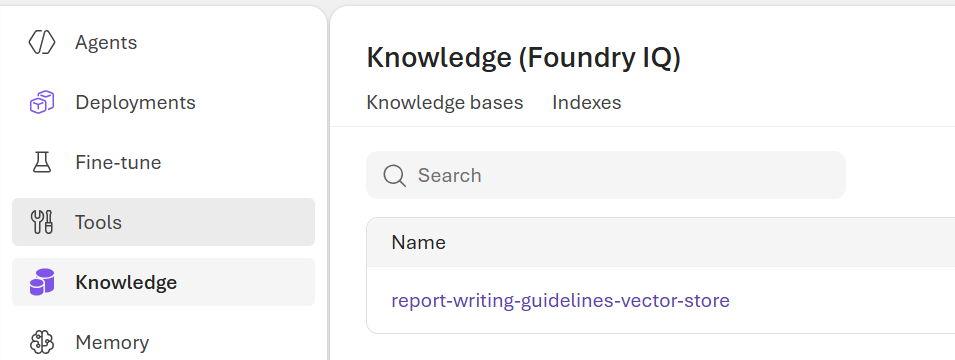
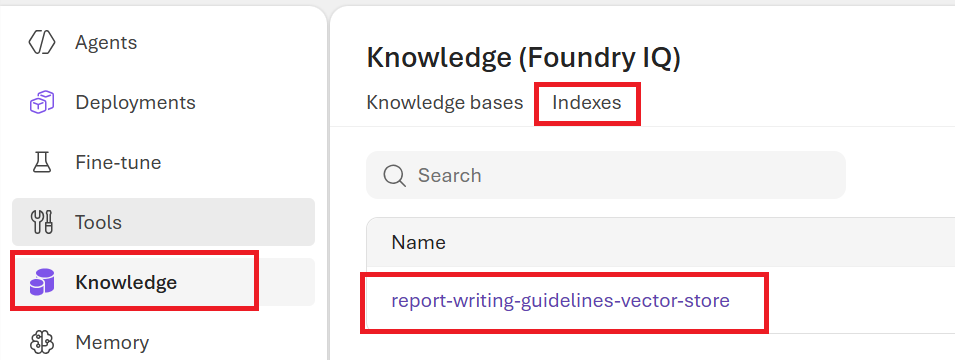
docs: Add latest labs for Foundry IQ.

diff --git a/src/foundry_iq/main_knowledge_base.py b/src/foundry_iq/main_knowledge_base.py
@@ -77,7 +77,7 @@ def create_web_knowledge_source(index_client: SearchIndexClient) -> None:
 def create_index_knowledge_source(index_client: SearchIndexClient) -> None:
     """Create the searchIndex knowledge source backed by the built index."""
     # <lab id="2">
-    #|# TODO: define and register the search-index knowledge source (Lab 2).
+    #|raise NotImplementedError("Lab 2: define and register the search-index knowledge source.")
     knowledge_source = SearchIndexKnowledgeSource(
         {
             "name": AI_SEARCH_KNOWLEDGE_BASE_NAME,
@@ -102,7 +102,7 @@ def create_index_knowledge_source(index_client: SearchIndexClient) -> None:
 def create_knowledge_base(index_client: SearchIndexClient) -> KnowledgeBase:
     """Create the Foundry IQ knowledge base over the search-index source."""
     # <lab id="3">
-    #|# TODO: define and create the Foundry IQ knowledge base (Lab 3).
+    #|raise NotImplementedError("Lab 3: define and create the Foundry IQ knowledge base.")
     knowledge_base = KnowledgeBase(
         {
             "name": KNOWLEDGE_BASE_NAME,

diff --git a/docs/workshop.md b/docs/workshop.md
@@ -468,7 +468,7 @@ uv run python main.py
 
 The vector store you just built covers internal writing guidelines. In this lab, you add two more retrieval sources to Foundry IQ, and they play complementary roles:
 
-- an **Azure AI Search source** over the company documents that were indexed at startup. This is where the agent looks first, because it holds the company own content.
+- an **Azure AI Search source** over the company documents that were indexed at startup. This is where the agent will look first, to ask for company content.
 - a **web source** used as a fallback, so when the answer is not in the indexed documents the agent can still ground it on trusted public documentation instead of guessing.
 
 A knowledge source is just a named connector that tells Foundry IQ *where* to look. On their own, these two sources are not enough: the agent needs a single entry point that knows to try the company documents first and fall back to the web when needed. That is exactly why, in the next lab, you group both sources into one knowledge base.
@@ -484,8 +484,6 @@ A knowledge source is just a named connector that tells Foundry IQ *where* to lo
 You only need to edit this file:
 
 - `src/foundry_iq/main_knowledge_base.py`
-
-The Azure AI Search index itself is created separately by `seed_ai_search/create_index.py` at startup. Here you only wire that existing index up as a source. The file already reads every required environment variable and creates the `SearchIndexClient` for you, so keep the rest of the file as-is and only complete the Lab 2 placeholders.
 
 ### Define The Web Knowledge Source
 
@@ -569,7 +567,7 @@ The two knowledge sources are registered, but the agent cannot query them direct
 
 - Group several knowledge sources into one knowledge base.
 - Configure answer synthesis so Foundry IQ returns a written answer, not just raw chunks.
-- Attach an Azure OpenAI model to the knowledge base.
+- Attach a Foundry model to the knowledge base.
 
 ### Files To Open
 
@@ -579,13 +577,15 @@ You stay in the same file:
 
 Complete the Lab 3 placeholder inside `create_knowledge_base(...)`.
 
-### Define And Create The Knowledge Base
+### Define and Create The Knowledge Base
 
-Open `src/foundry_iq/main_knowledge_base.py` and find the Lab 3 placeholder.
+The knowledge base is what the agent actually talks to. A knowledge base can have multiple sources, and it can be configured to return either raw passages or a synthesized answer. This answer is made by the agentic retrieval model you attach to the knowledge base, which reads the retrieved passages and writes a concise, citation-backed answer.
 
-The knowledge base is what the agent actually talks to. It lists the sources to search (both the web source and the search-index source you defined in Lab 2), and because `outputMode` is set to `answerSynthesis`, Foundry IQ uses the configured model to read the retrieved passages and write a concise, citation-backed answer. Pointing the model block at `FOUNDRY_ENDPOINT` and `CHAT_MODEL_DEPLOYMENT` keeps deployment details in configuration rather than hard-coded here.
+The advantage of Knowledge Bases is that you can share it across multiple agents, and you can change the sources or the model without touching the agents themselves.
 
-Replace it with:
+You can also create multiples knowledge bases, by using different sources or different models and use them based on your use case. This is a good way to build multiple scenario based on the same sources, but with different models or different answer instructions.
+
+Open `src/foundry_iq/main_knowledge_base.py` and find the Lab 3 placeholder, replace it with:
 
 ```python
 knowledge_base = KnowledgeBase(
@@ -622,6 +622,8 @@ logger.info(f"Knowledge base '{KNOWLEDGE_BASE_NAME}' ready.")
 return result
 ```
 
+It lists the sources to search (both the web source and the search-index source you defined in previous lab, and because `outputMode` is set to `answerSynthesis`, Foundry IQ uses the configured model to read the retrieved passages and write a concise, citation-backed answer. Pointing the model block at `FOUNDRY_ENDPOINT` and `CHAT_MODEL_DEPLOYMENT` keeps deployment details in configuration rather than hard-coded here.
+
 `retrievalReasoningEffort` set to `low` keeps retrieval fast and inexpensive, which is a good default for a workshop. You can raise it later when you need deeper multi-step reasoning over the sources.
 
 ### Run The Script
@@ -641,11 +643,29 @@ uv run python main_knowledge_base.py
 
 </div>
 
+If you go to Foundry portal inside **Build** > **Knowledge** > **Knowledge Bases**, you should see the `contoso-knowledge-base` knowledge base you just created:
+
+![foundry-knowledge-bases](./assets/foundry-iq-knowledge-base.png)
+
+If you click on it, you can see the two sources and the model it uses for answer synthesis:
+
+![foundry-knowledge-bases-detail](./assets/foundry-knowledge-bases-detail.png)
+
+Also, you can see it direcly inside your AI Search instance:
+
+![foundry-knowledge-sources](./assets/ai-search-knowledge-sources.png)
+
+And also the knowledge base itself:
+
+![foundry-knowledge-base](./assets/ai-search-knowledge-base.png)
+
+If you click on it, you will see that you have also a playground to test it directly from the Azure AI Search portal.
+
 ---
 
 ## Access data from the index based on the user / agent
 
-Your orchestrator agent already retrieves the report-writing guidelines from the vector store you built in Lab 1. In this final step, you connect it to the knowledge base you assembled in Labs 2 and 3, and you make that Azure AI Search retrieval identity-aware, so each user only sees the documents they are allowed to read.
+Your orchestrator agent already retrieves the report-writing guidelines from the managed indexed you built previously. In this final lab, you will connect it to the knowledge base you just created.
 
 ### What You Will Learn
 
@@ -654,19 +674,17 @@ Your orchestrator agent already retrieves the report-writing guidelines from the
 
 ### Files To Open
 
-You go back to the file you started in Lab 1:
+You will need the same file you edited in the previous lab:
 
 - `src/agents/main.py`
 
-The chat client, the guidelines tool and the agent wiring are already there from Lab 1. You only complete the remaining Lab 4 placeholder that plugs the identity-aware search provider into the agent.
+The chat client, the guidelines tool and the agent wiring are already there from previous labs. You only complete the remaining Lab 4 placeholder that will plug the identity-aware search provider into the agent.
 
 ### Add The Identity-Aware Search Provider
 
-Open `src/agents/main.py` and find the Lab 4 placeholder.
+A context provider automatically enriches the conversation with relevant knowledge before the model answers. This one runs in `agentic` mode by using the knowledge base you created previously, so retrieval and answer synthesis happen through Foundry IQ. The important detail is that it is identity-aware: it propagates the signed-in user identity to Azure AI Search, so document-level permissions are enforced and each user only retrieves what they are allowed to see. Assigning it to `context_providers` is what adds it to the agent you wired in Lab 1.
 
-A context provider automatically enriches the conversation with relevant knowledge before the model answers. This one runs in `agentic` mode against the knowledge base from Lab 3, so retrieval and answer synthesis happen through Foundry IQ. The important detail is that it is identity-aware: it propagates the signed-in user identity to Azure AI Search, so document-level permissions are enforced and each user only retrieves what they are allowed to see. Assigning it to `context_providers` is what adds it to the agent you wired in Lab 1.
-
-Replace it with:
+Open `src/agents/main.py` and find the Lab 4 placeholder, replace it with:
 
 ```python
 aisearch_context_provider = IdentityAwareAzureAISearchContextProvider(
@@ -703,6 +721,12 @@ DevUI opens again so you can chat with the full orchestrator agent.
 > Sign in as different users and confirm the Azure AI Search results are trimmed according to each user document permissions.
 
 </div>
+
+If you ask content that are inside the restricted documents, you should see that the answer is different based on the user you are signed in with.
+
+For instance "What is the Q3 2026 Event Budget Tracker ?" should return the content of the document if you are signed in as a user that has access to it, otherwise the agent should answer that it cannot find any information about it.
+
+You can test this easily by adding and removing yourself from the `Contoso-RestrictedDocs` group in Microsoft Entra ID, and then signing in again to the agent.
 
 ---
 
